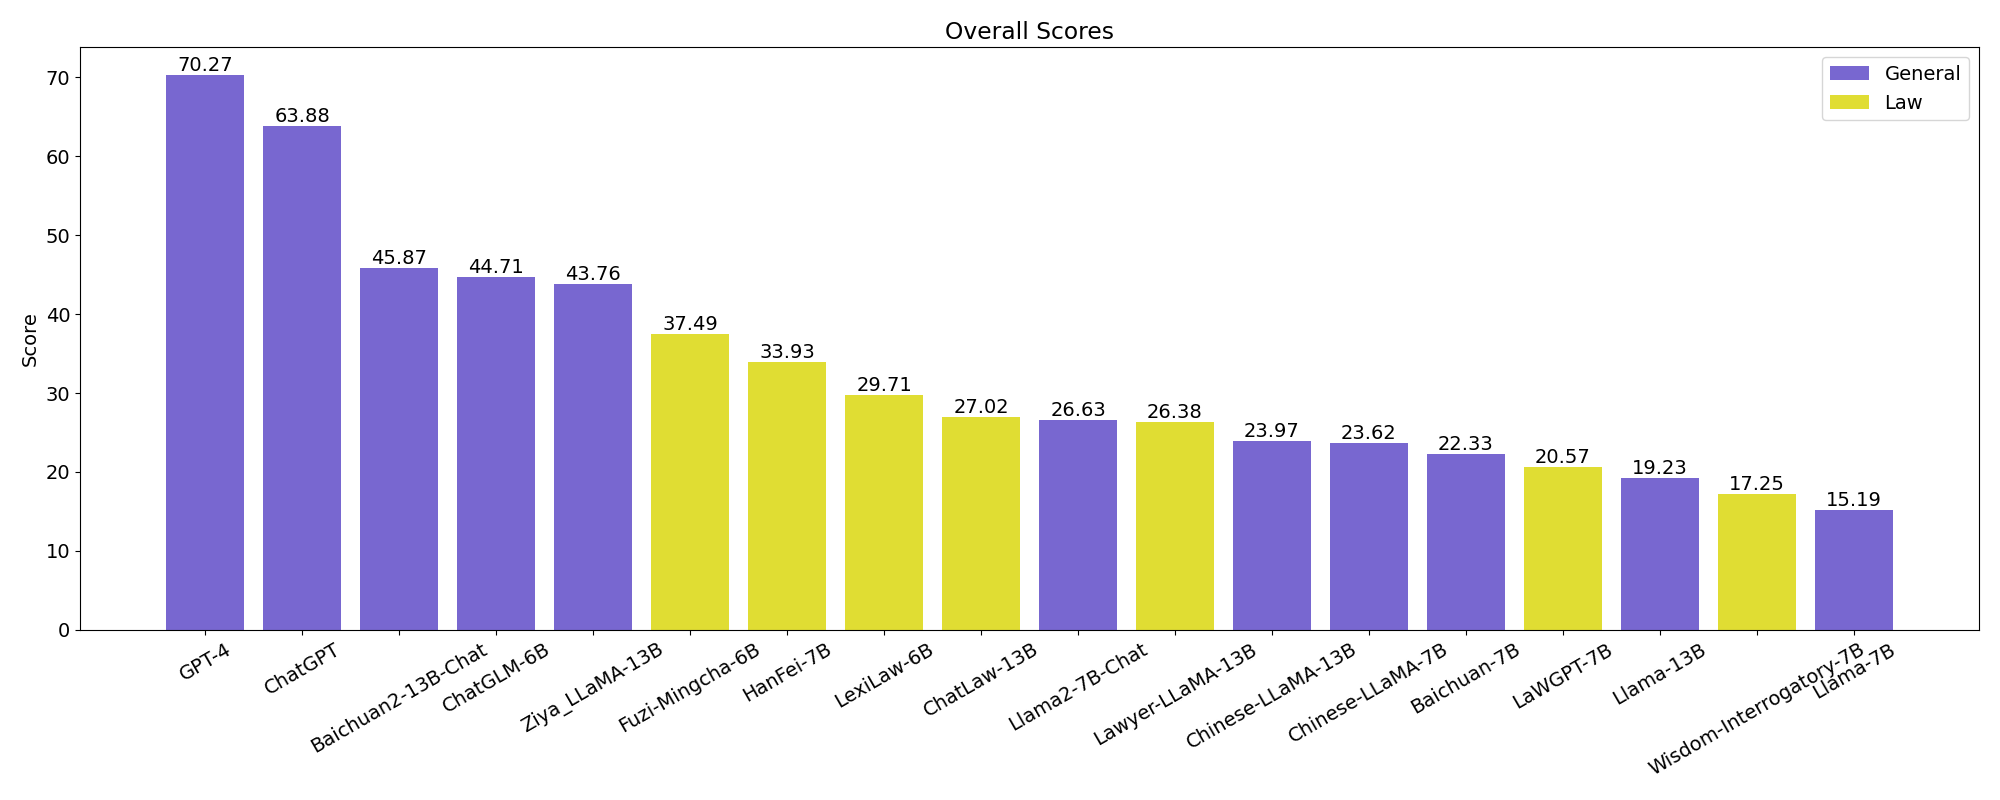
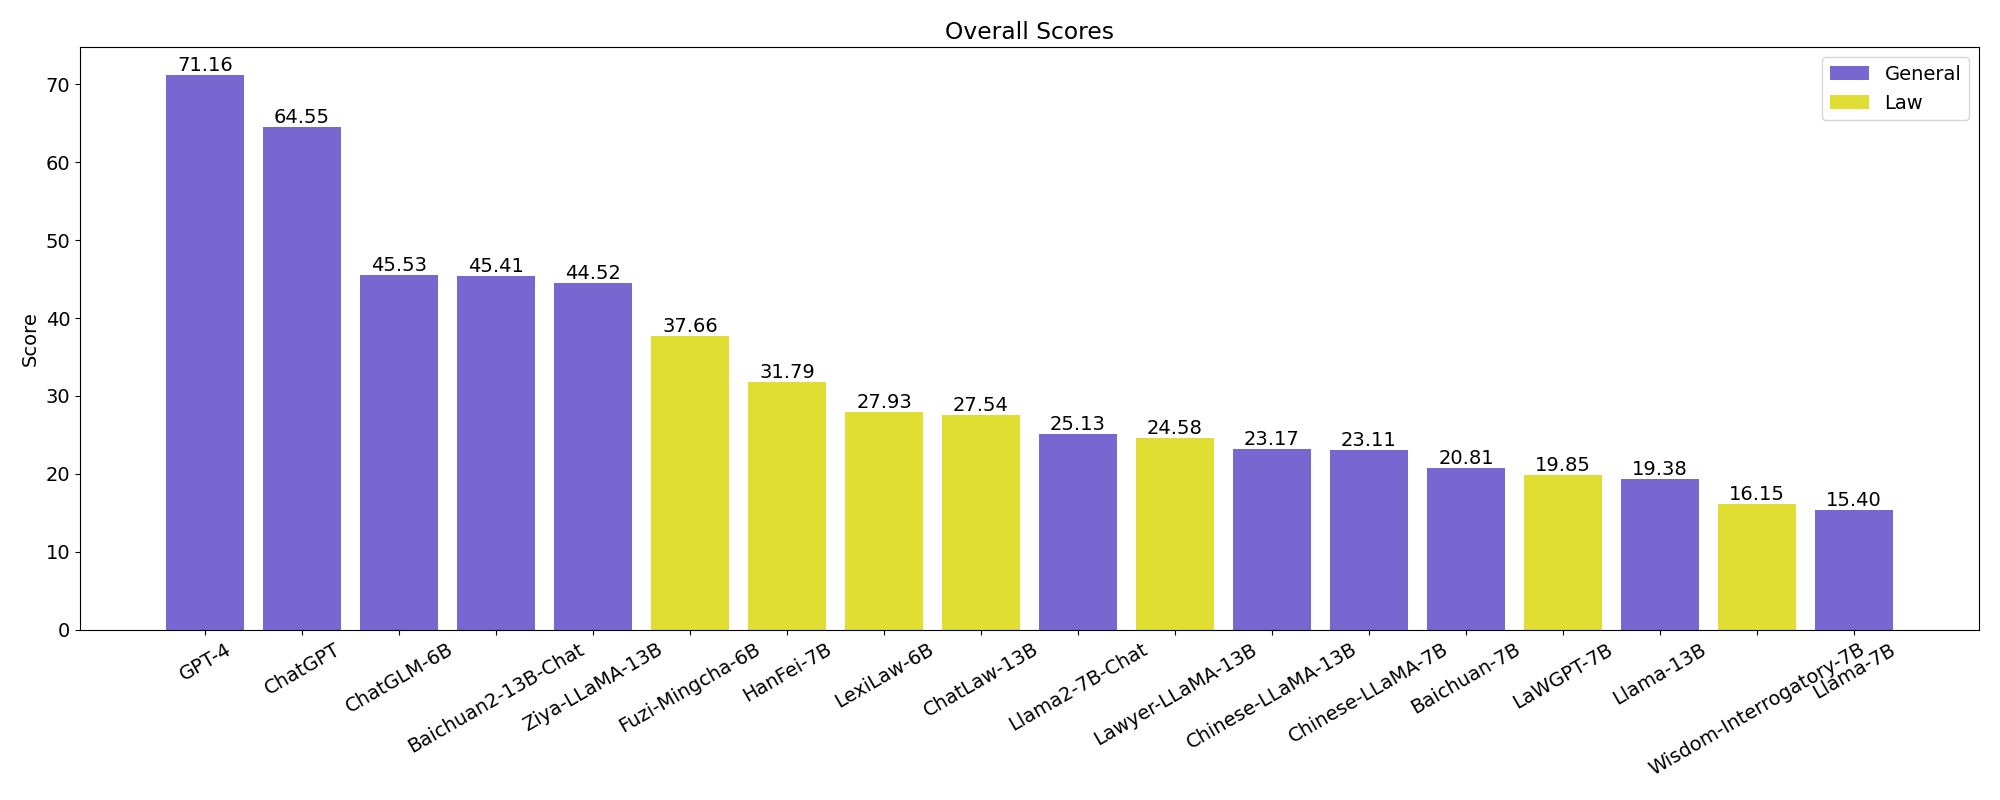
update

diff --git a/README.md b/README.md
@@ -10,17 +10,13 @@
 
 ## 新闻
 
-📝 **即将更新**
-
-- 增加 [LAiW](https://github.com/Dai-shen/LAiW) 的人工评测方式及相关结果
-- 更新 [LAiW技术报告](https://arxiv.org/abs/2310.05620) 初版
-
 🔄 **最近更新**
 
-- [2024/1/22] 增加通用大模型 [Baichuan-7B](https://huggingface.co/baichuan-inc/Baichuan-7B) 的评测结果
+- [2024-04-19] 更新 [LAiW技术报告](https://arxiv.org/abs/2310.05620)
 
 📅 **更早讯息**
 
+- [2024/1/22] 增加通用大模型 [Baichuan-7B](https://huggingface.co/baichuan-inc/Baichuan-7B) 的评测结果
 - [2024/1/14] 提供评测数据集更多[详细信息](https://github.com/Dai-shen/LAiW/blob/main/data/README.md)，同时给出模型评测指标 [SCIULAiW](https://huggingface.co/spaces/daishen/SCULAiW) 的计算方式
 - [2024/1/12] 进一步确认和完善相关评测结果，优化评测榜单 [SCIULAiW](https://huggingface.co/spaces/daishen/SCULAiW) 的布局，补充评测模型更多详细信息
 - [2024/1/10] 新增商用大模型 GPT-4 和 通用大模型 Llama-7B, Llama13B, [Chinese-LLaMA-13B](https://github.com/ymcui/Chinese-LLaMA-Alpaca) 的评测
@@ -60,40 +56,40 @@
 
 按照大模型[评分机制](#评分机制)的计算方式，现阶段我们评测了7个主流法律大模型和6个通用大模型，模型得分如下
 
-| 模型 | 参数 | 模型<br>领域 | 总分 | 法律NLP<br>基础能力 | 法律基础<br>应用能力 | 法律复杂<br>应用能力 | 基模型 |
+| 模型 | 参数 | 模型领域 | 总分 | BIR | LFI | CLA | 基模型 |
 | :---:| :---: | :---: | :---: | :---: | :---: | :---: | :---: |
-| GPT-4 | - | 通用 | 70.27 | 80.92 | 66.56 | 58.69 | - |
-| ChatGPT | - | 通用 | 63.88 | 75.99 | 55.31 | 57.96 | - |
-| [Baichuan2-Chat](https://huggingface.co/baichuan-inc/Baichuan2-13B-Chat) | 13B | 通用 | 45.87 | 53.67 | 30.54 | 58.40 | - |
-| [ChatGLM](https://huggingface.co/THUDM/chatglm-6b)   | 6B | 通用 | 44.17 | 51.51 | 33.26 | 52.44 | - |
-| [Ziya-LLaMA](https://huggingface.co/IDEA-CCNL/Ziya-LLaMA-13B-v1) | 13B | 通用 | 43.76 | 61.47 | 24.45 | 46.45 | Llama-13B |
-| [Fuzi-Mingcha](https://huggingface.co/SDUIRLab/fuzi-mingcha-v1_0)  | 6B | 法律 | 37.49 | 39.68 | 24.96 | 54.71 | [ChatGLM-6B](https://huggingface.co/THUDM/chatglm-6b) |
-| [HanFei](https://github.com/siat-nlp/HanFei)   | 7B | 法律 | 33.36 | 37.42 | 18.80 | 53.31 | - |
-| [LexiLaw](https://github.com/CSHaitao/LexiLaw)   | 6B | 法律 | 29.71 | 41.32 | 9.67 | 43.73 | [ChatGLM-6B](https://huggingface.co/THUDM/chatglm-6b) |
-| [ChatLaw](https://huggingface.co/JessyTsu1/ChatLaw-13B)  | 13B | 法律 | 27.02 | 58.02 | 8.18 | 6.74 | [Ziya-LLaMA-13B](https://huggingface.co/IDEA-CCNL/Ziya-LLaMA-13B-v1) |
-| [Llama2-Chat](https://huggingface.co/meta-llama/Llama-2-7b-chat-hf)    | 7B | 通用 | 26.63 | 31.86 | 14.20 | 38.64 | - |
-| [Lawyer-LLaMA](https://github.com/AndrewZhe/lawyer-llama/tree/main?tab=readme-ov-file)  | 13B | 法律 | 26.38 | 30.85 | 7.43 | 50.50 | [Chinese-LLaMA-13B](https://github.com/ymcui/Chinese-LLaMA-Alpaca) |
-| [Chinese-LLaMA](https://github.com/ymcui/Chinese-LLaMA-Alpaca) | 13B | 通用 | 23.97 | 21.02 | 20.43 | 34.80 | Llama-13B |
-| [Chinese-LLaMA](https://github.com/ymcui/Chinese-LLaMA-Alpaca) | 7B | 通用 | 23.62 | 22.32 | 18.61 | 37.16 | Llama-7B |
-| [Baichuan](https://github.com/baichuan-inc/Baichuan-7B) | 7B | 通用 | 22.33 | 21.20 | 18.33 | 30.86 | - |
-| [LaWGPT](https://github.com/pengxiao-song/LaWGPT)      | 7B | 法律 | 20.57 | 15.47 | 15.02 | 38.32 | [Chinese-LLaMA-7B](https://github.com/ymcui/Chinese-LLaMA-Alpaca) |
-| Llama | 13B | 通用 | 19.32 | 18.51 | 13.84 | 29.40 | - |
-| [Wisdom-Interrogatory](https://github.com/zhihaiLLM/wisdomInterrogatory) | 7B | 法律 | 17.25 | 12.66 | 12.17 | 33.37 | [Baichuan-7B](https://huggingface.co/baichuan-inc/Baichuan-7B) |
-| Llama | 7B | 通用 | 15.19 | 11.12 | 14.86 | 22.54 | - |
+| GPT-4 | - | 通用 | 69.63 | 80.92 | 69.27 | 58.69 | - |
+| ChatGPT | - | 通用 | 64.09 | 75.99 | 58.32 | 57.96 | - |
+| [Baichuan2-Chat](https://huggingface.co/baichuan-inc/Baichuan2-13B-Chat) | 13B | 通用 | 48.04 | 53.67 | 32.03 | 58.40 | - |
+| [ChatGLM](https://huggingface.co/THUDM/chatglm-6b)   | 6B | 通用 | 47.01 | 51.51 | 37.08 | 52.44 | - |
+| [Ziya-LLaMA](https://huggingface.co/IDEA-CCNL/Ziya-LLaMA-13B-v1) | 13B | 通用 | 45.79 | 61.47 | 29.44 | 46.45 | Llama-13B |
+| [Fuzi-Mingcha](https://huggingface.co/SDUIRLab/fuzi-mingcha-v1_0)  | 6B | 法律 | 40.62 | 39.68 | 27.46 | 54.71 | [ChatGLM-6B](https://huggingface.co/THUDM/chatglm-6b) |
+| [HanFei](https://github.com/siat-nlp/HanFei)   | 7B | 法律 | 35.69 | 37.42 | 16.33 | 53.31 | - |
+| [LexiLaw](https://github.com/CSHaitao/LexiLaw)   | 6B | 法律 | 31.31 | 41.32 | 8.88 | 43.73 | [ChatGLM-6B](https://huggingface.co/THUDM/chatglm-6b) |
+| [ChatLaw](https://huggingface.co/JessyTsu1/ChatLaw-13B)  | 13B | 法律 | 25.77 | 58.02 | 12.54 | 6.74 | [Ziya-LLaMA-13B](https://huggingface.co/IDEA-CCNL/Ziya-LLaMA-13B-v1) |
+| [Llama2-Chat](https://huggingface.co/meta-llama/Llama-2-7b-chat-hf)    | 7B | 通用 | 27.76 | 31.86 | 12.77 | 38.64 | - |
+| [Lawyer-LLaMA](https://github.com/AndrewZhe/lawyer-llama/tree/main?tab=readme-ov-file)  | 13B | 法律 | 29.25 | 30.85 | 6.39 | 50.50 | [Chinese-LLaMA-13B](https://github.com/ymcui/Chinese-LLaMA-Alpaca) |
+| [Chinese-LLaMA](https://github.com/ymcui/Chinese-LLaMA-Alpaca) | 13B | 通用 | 24.99 | 21.02 | 19.16 | 34.80 | Llama-13B |
+| [Chinese-LLaMA](https://github.com/ymcui/Chinese-LLaMA-Alpaca) | 7B | 通用 | 24.91 | 22.32 | 18.25 | 34.16 | Llama-7B |
+| [Baichuan](https://github.com/baichuan-inc/Baichuan-7B) | 7B | 通用 | 22.51 | 21.20 | 15.46 | 30.86 | - |
+| [LaWGPT](https://github.com/pengxiao-song/LaWGPT)      | 7B | 法律 | 22.69 | 15.47 | 14.27 | 38.32 | [Chinese-LLaMA-7B](https://github.com/ymcui/Chinese-LLaMA-Alpaca) |
+| Llama | 13B | 通用 | 21.00 | 18.51 | 15.08 | 29.40 | - |
+| [Wisdom-Interrogatory](https://github.com/zhihaiLLM/wisdomInterrogatory) | 7B | 法律 | 18.83 | 12.66 | 10.45 | 33.37 | [Baichuan-7B](https://huggingface.co/baichuan-inc/Baichuan-7B) |
+| Llama | 7B | 通用 | 16.35 | 11.12 | 15.40 | 22.54 | - |
 
 其中，大模型法律能力评测总得分和各层级法律能力得分排名依次为
 
-<img src="https://github.com/Dai-shen/LAiW/blob/main/resources/overall-histogram.png"  width="100%" height="100%"></img>
+<img src="https://github.com/Dai-shen/LAiW/blob/main/resources/Overall-histogram.png"  width="100%" height="100%"></img>
 
-<img src="https://github.com/Dai-shen/LAiW/blob/main/resources/NLP-histogram.png"  width="100%" height="100%"></img>
+<img src="https://github.com/Dai-shen/LAiW/blob/main/resources/BIR-histogram.png"  width="100%" height="100%"></img>
 
-<img src="https://github.com/Dai-shen/LAiW/blob/main/resources/basic-histogram.png"  width="100%" height="100%"></img>
+<img src="https://github.com/Dai-shen/LAiW/blob/main/resources/LFI-histogram.png"  width="100%" height="100%"></img>
 
-<img src="https://github.com/Dai-shen/LAiW/blob/main/resources/complex-histogram.png"  width="100%" height="100%"></img>
+<img src="https://github.com/Dai-shen/LAiW/blob/main/resources/CLA-histogram.png"  width="100%" height="100%"></img>
 
 ### 评测任务
 
-我们在 <strong>法学专家与人工智能专家</strong> 的共同努力下，从法学角度和可实现性上对法律 NLP的能力进行划分．如上图所示，目前我们将其分成了<strong>3</strong>大能力，共计<strong>13</strong>个基础任务：
+我们在 <strong>法学专家与人工智能专家</strong> 的共同努力下，从法学角度和可实现性上对法律 NLP的能力进行划分．如上图所示，目前我们将其分成了<strong>3</strong>大能力，共计<strong>14</strong>个基础任务：
 
 - 法律 NLP 基础能力：评测法律基础任务、 NLP 基础任务和法律信息抽取的能力，包括法条推送、要素识别、命名实体识别、司法要点摘要和案件识别 5 个基础任务
 - 法律基础应用能力：评测大模型对法律领域知识的基础应用能力，包括争议焦点挖掘、类案匹配、刑事裁判预测、民事裁判预测和法律问答 5 个基础任务
@@ -142,7 +138,7 @@
   </tr>
   <tr>
     <td>刑事裁判预测</td>
-    <td>根据事实描述自动预测裁判结果，本任务旨在根据案件事实、证据和适用的法律，对被告人的定罪与否以及可能的刑期进行预测</td>
+    <td>根据事实描述自动预测裁判结果，本任务旨在根据案件事实、证据和适用的法律，对被告人的定罪与否以及可能的刑期进行预测，因此分为罪名预测和刑期预测两类任务</td>
   </tr>
   <tr>
     <td>民事裁判预测</td>
@@ -223,7 +219,7 @@
   <tr>
     <td rowspan="6">法律知识理解能力</td>
     <td>争议焦点挖掘</td>
-    <td>Private</td>
+    <td>LAIC-2021</td>
     <td><a href="https://huggingface.co/datasets/daishen/legal-cfm">legal_cfm</a></td>
     <td>306</td>
     <td>分类</td>
@@ -303,7 +299,7 @@ $$
 
 </div>
 
-目前，我们的评测基准主要包含分类任务和文本生成任务两类。对于分类任务，我们采用F1值，对于文本生成任务，我们采用其Rouge1，Rouge2和RougeL的均值。特别地，对于法律NER任务，我们采用法律实体的提取准确率Accuracy作为其得分。
+目前，我们的评测基准主要包含分类任务和文本生成任务两类。对于分类任务，我们采用F1值。对于文本生成任务，我们采用其Rouge1，Rouge2和RougeL的均值。特别地，对于法律NER任务，我们采用法律实体的提取准确率Accuracy作为其得分。
 
 🌟 模型得分
 

diff --git a/README_en.md b/README_en.md
@@ -1,4 +1,4 @@
-# ⚖LAiW: A Chinese Legal Large Language Models Benchmark
+* # ⚖LAiW: A Chinese Legal Large Language Models Benchmark
 
 | [English](https://github.com/Dai-shen/LAiW/blob/main/README_en.md) | [中文](https://github.com/Dai-shen/LAiW/blob/main/README.md)
 
@@ -22,20 +22,19 @@
 
 ## Contents
 
-- [⚖LAiW: A Chinese Legal Large Language Models Benchmark](#laiw-a-chinese-legal-large-language-models-benchmark)
-  - [News](#news)
-  - [Contents](#contents)
-    - [Evaluation structure diagram](#evaluation-structure-diagram)
-    - [Tasks](#tasks)
-    - [Datasets](#datasets)
-    - [Scoring Mechanism](#scoring-mechanism)
-    - [Evaluation](#evaluation)
-      - [Preparation](#preparation)
-      - [Automated Assessment](#automated-assessment)
-    - [Contributors](#contributors)
-    - [Disclaimer](#disclaimer)
-    - [Acknowledgements](#acknowledgements)
-    - [Cite](#cite)
+- [News](#news)
+- [Contents](#contents)
+  - [Evaluation structure diagram](#evaluation-structure-diagram)
+  - [Tasks](#tasks)
+  - [Datasets](#datasets)
+  - [Scoring Mechanism](#scoring-mechanism)
+  - [Evaluation](#evaluation)
+    - [Preparation](#preparation)
+    - [Automated Assessment](#automated-assessment)
+  - [Contributors](#contributors)
+  - [Disclaimer](#disclaimer)
+  - [Acknowledgements](#acknowledgements)
+  - [Cite](#cite)
 
 ### Evaluation structure diagram
 
